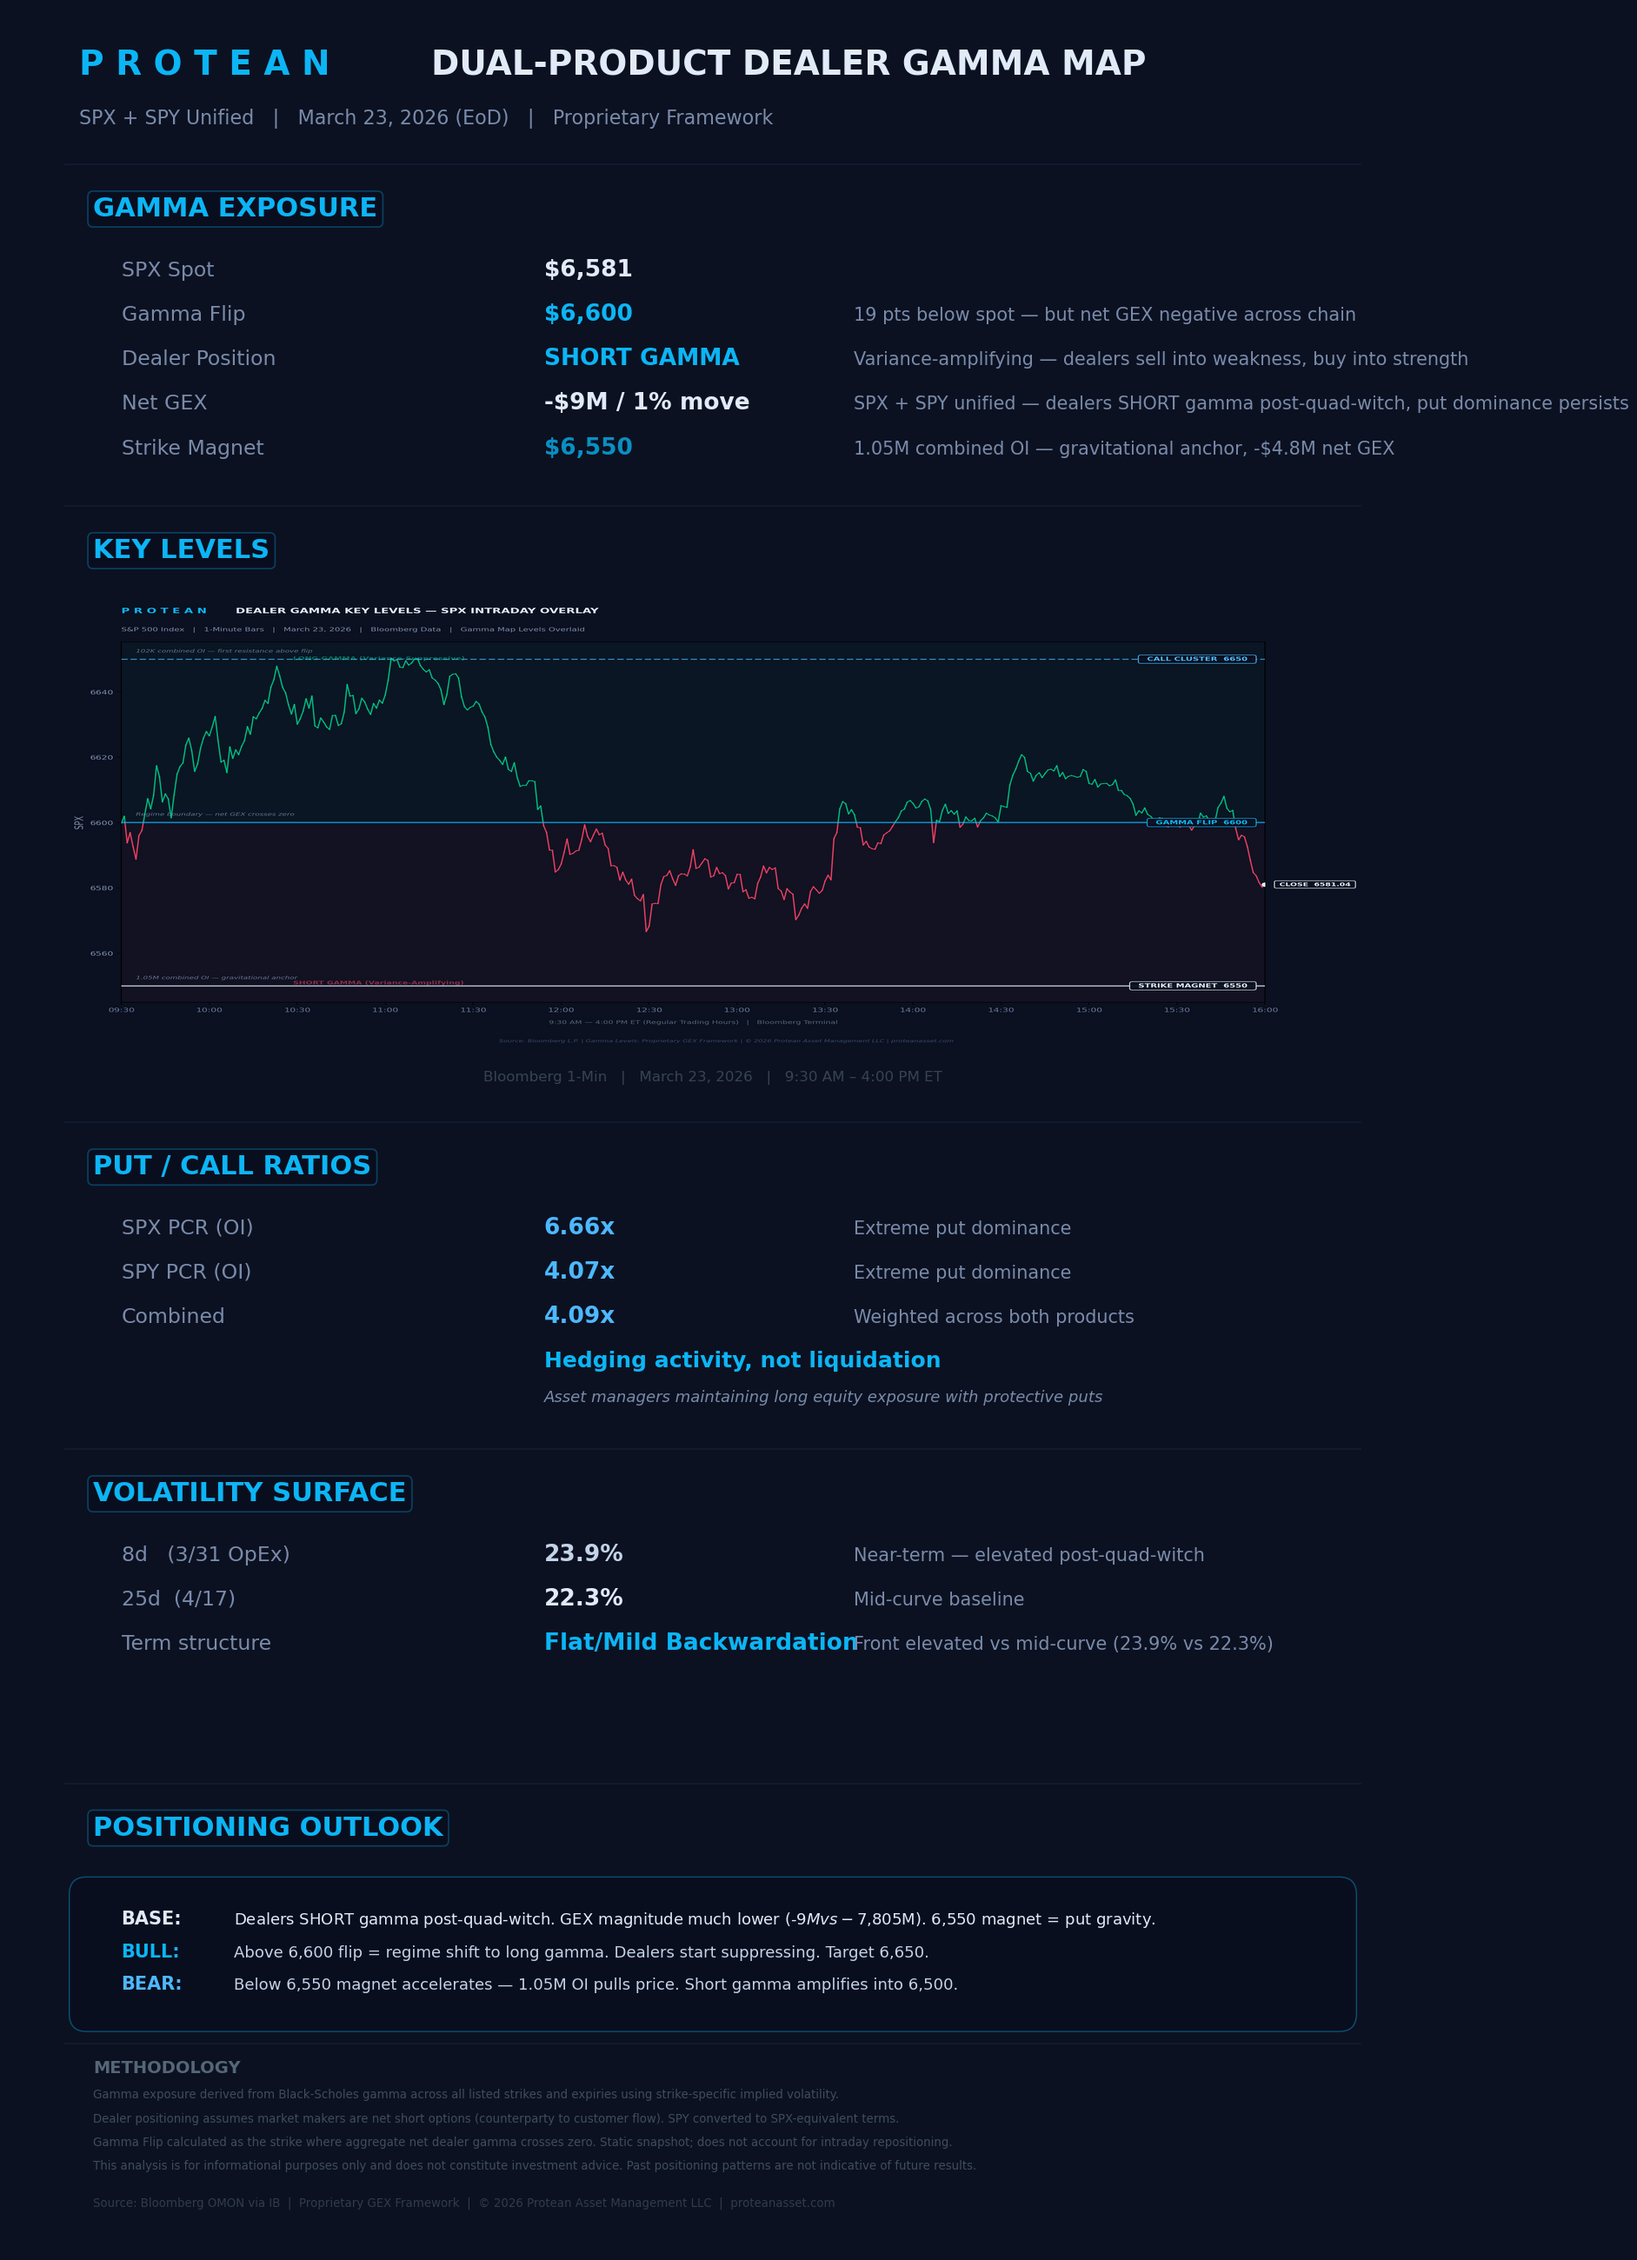
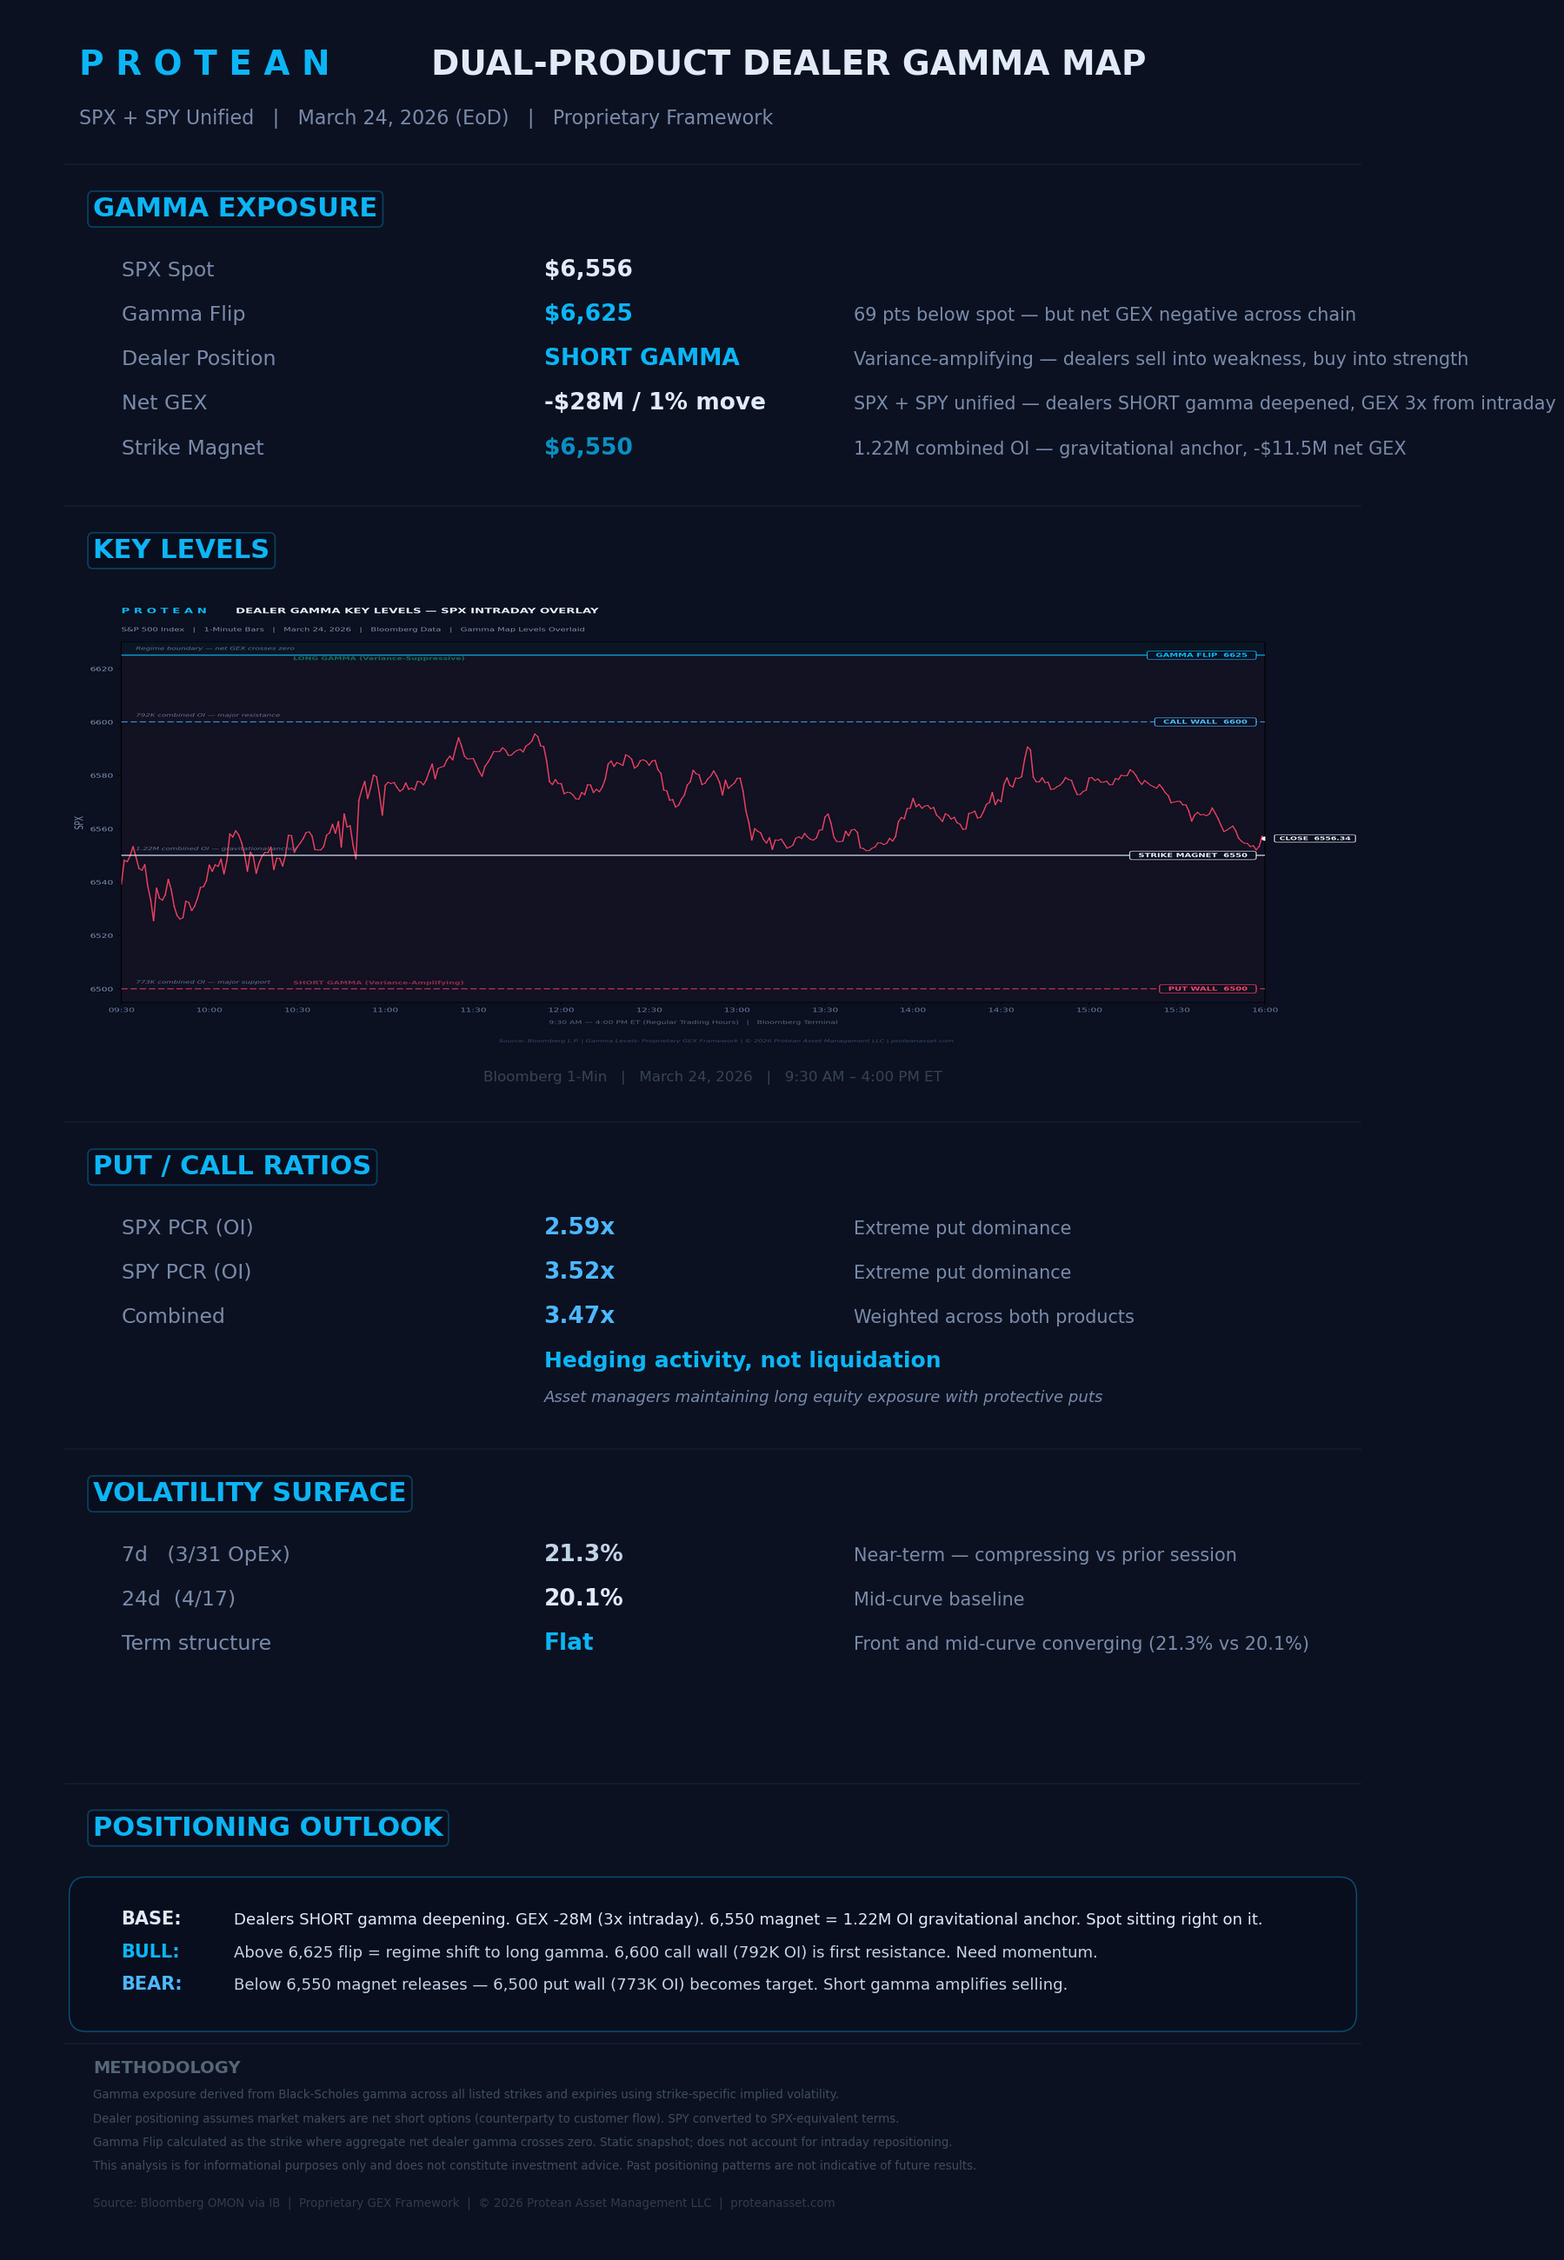
Gamma update Mar 24 EoD: GEX -$28M, Flip 6625, PCR 3.47x, OI@6550 1.22M + key levels chart + intraday overlay

diff --git a/research.html b/research.html
@@ -227,7 +227,7 @@
         <div class="card-header">
             <div class="card-tag">Microstructure — Dealer Positioning</div>
             <div class="card-title">Dual-Product Dealer Gamma Map — SPX + SPY Unified</div>
-            <div class="card-subtitle">Proprietary GEX Framework | Black-Scholes Gamma | Bloomberg OMON Data | As of March 23, 2026 (EoD)</div>
+            <div class="card-subtitle">Proprietary GEX Framework | Black-Scholes Gamma | Bloomberg OMON Data | As of March 24, 2026 (EoD)</div>
         </div>
         <div class="card-body" style="padding: 1.5rem 2rem;">
             <img src="gamma-map.png" alt="Dual-Product Dealer Gamma Map" style="width:100%; border-radius:8px; border:1px solid rgba(12,181,245,0.12);">
@@ -237,16 +237,16 @@
                     <div style="font-size:0.58rem; color:#556677; margin-top:0.15rem; letter-spacing:0.06em; text-transform:uppercase;">Gamma Flip</div>
                 </div>
                 <div style="text-align:center; padding:0.5rem 0.3rem; background:rgba(12,181,245,0.03); border:1px solid rgba(12,181,245,0.07); border-radius:5px;">
-                    <div style="font-size:1rem; font-weight:600; color:#ff4466; font-family:monospace;">-$7,805M</div>
+                    <div style="font-size:1rem; font-weight:600; color:#ff4466; font-family:monospace;">-$28M</div>
                     <div style="font-size:0.58rem; color:#556677; margin-top:0.15rem; letter-spacing:0.06em; text-transform:uppercase;">Net GEX / 1%</div>
                 </div>
                 <div style="text-align:center; padding:0.5rem 0.3rem; background:rgba(12,181,245,0.03); border:1px solid rgba(12,181,245,0.07); border-radius:5px;">
-                    <div style="font-size:1rem; font-weight:600; color:#ff4466; font-family:monospace;">4.85x</div>
+                    <div style="font-size:1rem; font-weight:600; color:#ff4466; font-family:monospace;">3.47x</div>
                     <div style="font-size:0.58rem; color:#556677; margin-top:0.15rem; letter-spacing:0.06em; text-transform:uppercase;">Combined PCR</div>
                 </div>
                 <div style="text-align:center; padding:0.5rem 0.3rem; background:rgba(12,181,245,0.03); border:1px solid rgba(12,181,245,0.07); border-radius:5px;">
-                    <div style="font-size:1rem; font-weight:600; color:#0cb5f5; font-family:monospace;">3.54M</div>
-                    <div style="font-size:0.58rem; color:#556677; margin-top:0.15rem; letter-spacing:0.06em; text-transform:uppercase;">OI @ 6600</div>
+                    <div style="font-size:1rem; font-weight:600; color:#0cb5f5; font-family:monospace;">1.22M</div>
+                    <div style="font-size:0.58rem; color:#556677; margin-top:0.15rem; letter-spacing:0.06em; text-transform:uppercase;">OI @ 6550</div>
                 </div>
             </div>
         </div>
